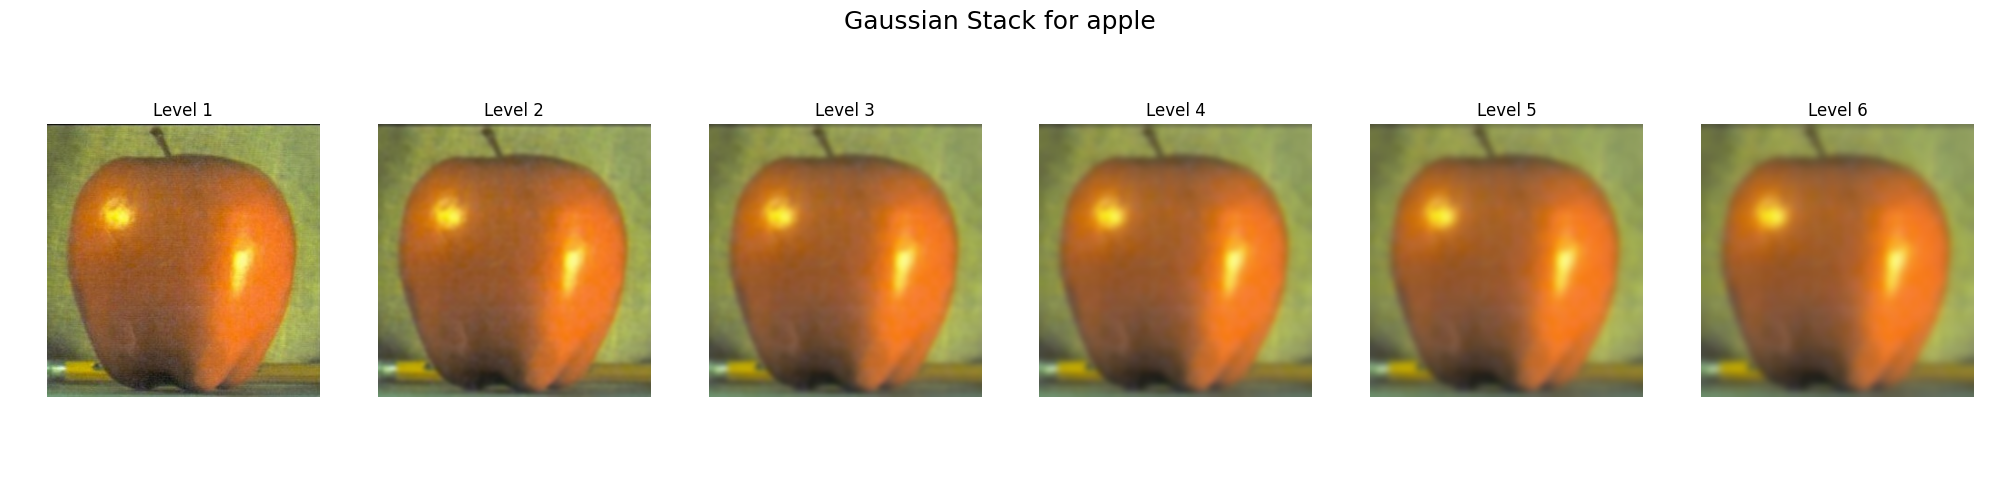
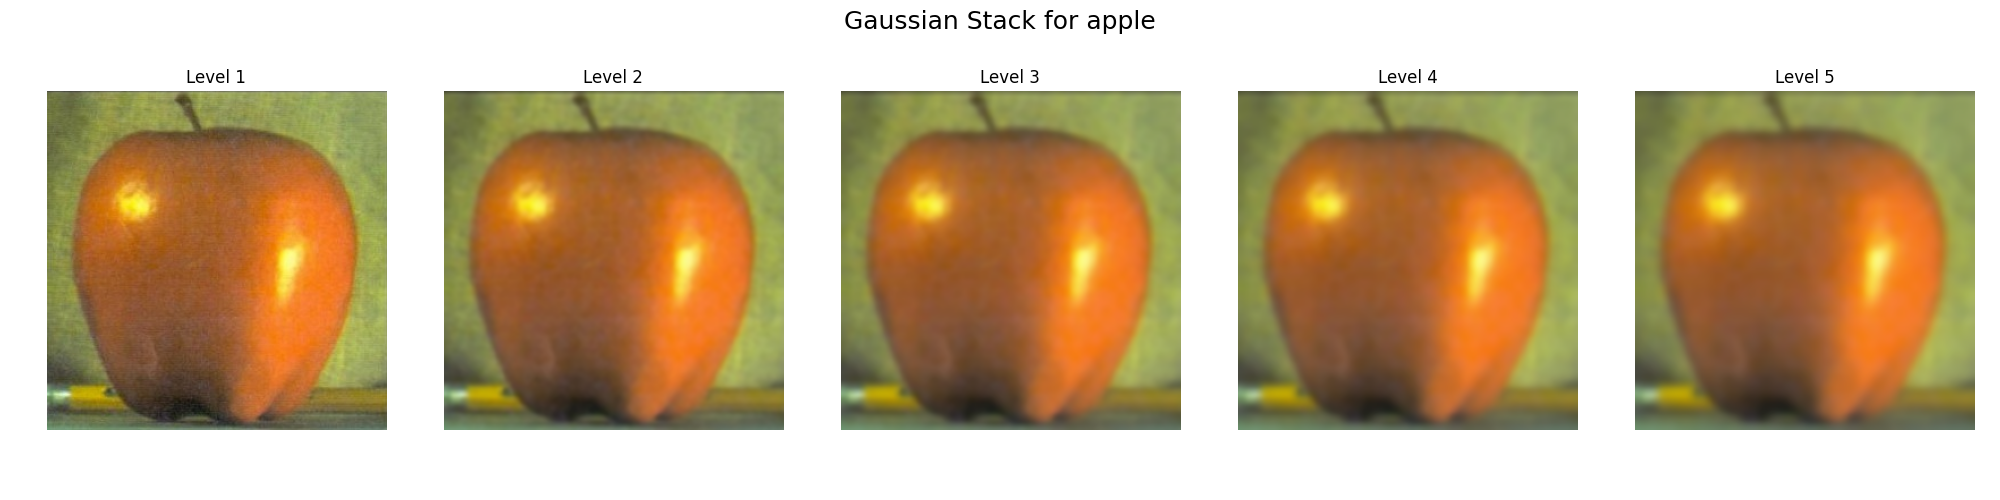
cv-project2: finish

diff --git a/CV/project2/part2.py b/CV/project2/part2.py
@@ -1,5 +1,4 @@
-from scipy.signal import convolve2d
-
+from scipy.signal import convolve2d, unit_impulse
 import numpy as np
 import cv2
 import matplotlib.pyplot as plt
@@ -19,7 +18,7 @@ IMAGE1 = "submarine.bmp"
 IMAGE2 = "fish.bmp"
 IMAGE3 = "apple.jpeg"
 IMAGE4 = "orange.jpeg"
-LEVELS = 5
+LEVELS = 4
 
 ### Part 2-1: Image Sharpening ###
 def gaussian_filter(img, ksize=KSIZE, sigma=SIGMA, color=False):
@@ -36,22 +35,106 @@ def gaussian_filter(img, ksize=KSIZE, sigma=SIGMA, color=False):
 
 def sharpening(img):
     img_blur = gaussian_filter(img, color=True)
-    img_detail = img - img_blur
-    img_sharpened = img + ALPHA * img_detail
-    return img_sharpened, img_detail
+    img_detail = ALPHA * (img - img_blur)
+    img_sharpened = np.clip(img + img_detail, 0, 255)
+    return img_sharpened, np.clip(img_detail, 0, 255)
+
+def unsharp_masking(img, ksize=KSIZE, sigma=SIGMA):
+    g = cv2.getGaussianKernel(ksize=ksize, sigma=sigma)
+    g_kernel = np.outer(g.T, g)
+    unsharp_mask_kernel = (1 + ALPHA) * unit_impulse((ksize,ksize), idx='mid') - ALPHA * g_kernel
+    r, g, b = cv2.split(img)
+    r_sharpened = convolve2d(r, unsharp_mask_kernel, mode='same', boundary='symm')
+    g_sharpened = convolve2d(g, unsharp_mask_kernel, mode='same', boundary='symm')
+    b_sharpened = convolve2d(b, unsharp_mask_kernel, mode='same', boundary='symm')
+    img_sharpened = np.dstack((r_sharpened, g_sharpened, b_sharpened))
+    img_sharpened = np.clip(img_sharpened, 0, 255)
+    return img_sharpened
+
+def frequency_analysis(img_origin, img_low, img_high, img_sharpened):
+    magnitude_spectrum = []
+    img = [img_origin, img_low, img_high, img_sharpened]
+    for i in range(4):
+        # Convert to grayscale if the image is in RGB
+        gray_image = cv2.cvtColor(img[i].astype(np.uint8), cv2.COLOR_BGR2GRAY)
+        
+        # Compute the 2D Fourier Transform of the image
+        f_transform = np.fft.fft2(gray_image)
+        
+        # Shift the zero frequency component to the center
+        f_shift = np.fft.fftshift(f_transform)
+    
+        # Compute the magnitude spectrum and use logarithmic scaling
+        magnitude_spectrum.append(np.log(np.abs(f_shift) + 1))  # Adding 1 to avoid log(0)
+
+    # High & Low Frequency Image Comparison
+    fig, ax = plt.subplots(2, 2, figsize=(10, 8))
+    ax[0][0].imshow(cv2.cvtColor(img[1].astype(np.uint8), cv2.COLOR_BGR2RGB))
+    ax[0][0].set_title('Spatial Domain', fontsize=18)
+    ax[0][0].axis('off')
+    ax[0][1].imshow(magnitude_spectrum[1], cmap='hot')
+    ax[0][1].set_title('Frequency Domain', fontsize=18)
+    ax[0][1].axis('off')
+    ax[1][0].imshow(cv2.cvtColor(img[2].astype(np.uint8), cv2.COLOR_BGR2RGB))
+    ax[1][0].axis('off')
+    ax[1][1].imshow(magnitude_spectrum[2], cmap='hot')
+    ax[1][1].axis('off')
+    fig.text(0.02, 0.75, 'Low Frequency', va='center', rotation='vertical', fontsize=18)
+    fig.text(0.02, 0.25, 'High Frequency', va='center', rotation='vertical', fontsize=18)
+    fig.tight_layout()
+    plt.savefig("./output/part2/2-1/frequency_analysis1.png")
+
+    # Original & Sharpened Image Comparison
+    fig, ax = plt.subplots(2, 2, figsize=(10, 8))
+    ax[0][0].imshow(cv2.cvtColor(img[0].astype(np.uint8), cv2.COLOR_BGR2RGB))
+    ax[0][0].set_title('Spatial Domain', fontsize=18)
+    ax[0][0].axis('off')
+    ax[0][1].imshow(magnitude_spectrum[0], cmap='hot')
+    ax[0][1].set_title('Frequency Domain', fontsize=18)
+    ax[0][1].axis('off')
+    ax[1][0].imshow(cv2.cvtColor(img[3].astype(np.uint8), cv2.COLOR_BGR2RGB))
+    ax[1][0].axis('off')
+    ax[1][1].imshow(magnitude_spectrum[3], cmap='hot')
+    ax[1][1].axis('off')
+    fig.text(0.02, 0.75, 'Original', va='center', rotation='vertical', fontsize=18)
+    fig.text(0.02, 0.25, 'Sharpened', va='center', rotation='vertical', fontsize=18)
+    fig.tight_layout()
+    plt.savefig("./output/part2/2-1/frequency_analysis2.png")
 
 def part2_1():
     input_path = "./data/taj.jpg"
     in_path = "./output/part2/2-1/input.png"
+    blur_path = "./output/part2/2-1/blur.png"
     sharpen_path = "./output/part2/2-1/sharpen.png"
+    unsharp_mask_path = "./output/part2/2-1/unsharp_mask.png"
     detail_path = "./output/part2/2-1/detail.png"
 
     img = cv2.imread(input_path)
+    img_blur = gaussian_filter(img, color=True)
     img_sharpened, img_detail = sharpening(img)
+    img_unsharp_mask = unsharp_masking(img)
+
+    # Frequency Analysis
+    frequency_analysis(img, img_blur, img_detail, img_sharpened)
+
+    fig, ax = plt.subplots(1, 3, figsize=(10, 4))
+    ax[0].imshow(cv2.cvtColor(img.astype(np.uint8), cv2.COLOR_BGR2RGB))
+    ax[0].set_title("Original Image")
+    ax[0].axis("off")
+    ax[1].imshow(cv2.cvtColor(img_sharpened.astype(np.uint8), cv2.COLOR_BGR2RGB))
+    ax[1].set_title("Sharpened")
+    ax[1].axis("off")
+    ax[2].imshow(cv2.cvtColor(img_unsharp_mask.astype(np.uint8), cv2.COLOR_BGR2RGB))
+    ax[2].set_title("Unsharp Mask Filter")
+    ax[2].axis("off")
+    fig.tight_layout()
+    plt.savefig("./output/part2/2-1/compare.png")
 
     cv2.imwrite(in_path, img)
+    cv2.imwrite(blur_path, img_blur)
     cv2.imwrite(detail_path, img_detail)
     cv2.imwrite(sharpen_path, img_sharpened)
+    cv2.imwrite(unsharp_mask_path, img_unsharp_mask)
 
 ### Part 2-2: Hybrid Images ###
 def highpass_filter(img, color=True):
@@ -134,7 +217,7 @@ def laplacian_stack(gaussian_stack, name):
     plt.savefig("./output/part2/2-3/laplacian_stack_" + name + ".png")
     return stack
 
-### Part 2-4: Image Blending ###
+### Part 2-4: Multiresolution Blending ###
 def image_blending(img1_stack, img2_stack, mask_stack):
     blended_stack = []
     for i in range(LEVELS+1):
@@ -178,6 +261,6 @@ def part2_4():
 
 
 if __name__ == "__main__":
-    # part2_1()
+    part2_1()
     # part2_2()
-    part2_4()
+    # part2_4()
